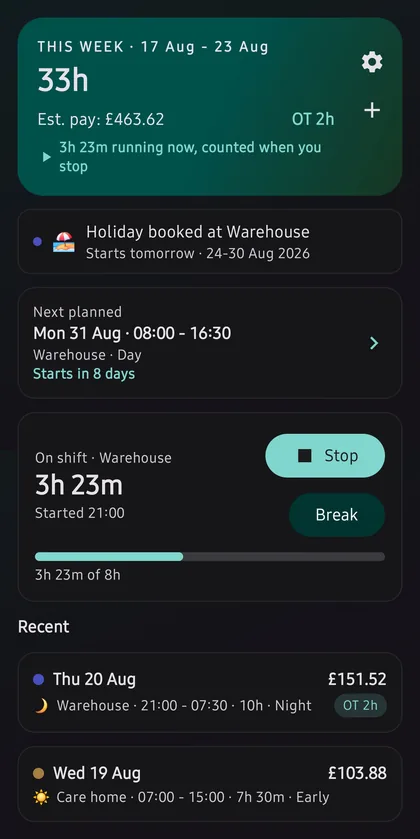
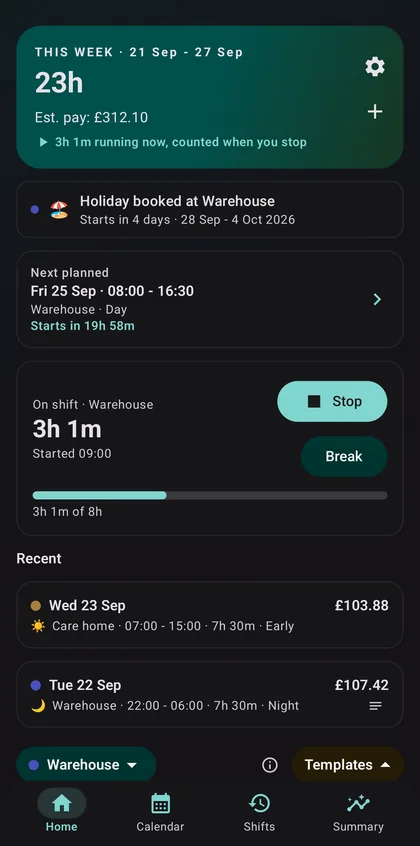
App screenshots: nine cards re-shot from the current Play listing captures
Tasbih+, Muslim Budget, Qard, Subs+, Renewly, Inventory+, Shifts+,
TakeHome+ and Trading Calculators now show the fleet dark look, from the
_source captures behind each app's captioned Play set (22-09 to 03-10).
Each is cropped 1440x2900 (no status bar or gesture handle, app bar kept)
to 420x846 card and 900x1812 lightbox WebP; heights updated in both places
each image appears. New alt text where the content changed (Subs+, Shifts+,
Trading Calculators); same screen in a new palette keeps its alt.
Unchanged: Mirath+, Birthday+, OfficeCalc, Invoice+, Holidays+, StairCalc
(already match their latest captures).

diff --git a/apps/index.html b/apps/index.html
@@ -59,7 +59,7 @@
             <a href="../privacy/tasbih-plus.html">Privacy policy</a>
           </div>
         </div>
-        <img class="shot-img" data-full="../img/tasbih-plus-large.webp" src="../img/tasbih-plus.webp" width="420" height="873" loading="lazy"
+        <img class="shot-img" data-full="../img/tasbih-plus-large.webp" src="../img/tasbih-plus.webp" width="420" height="846" loading="lazy"
              alt="Tasbih+ prayer times screen listing Fajr through Isha with a countdown to the next prayer.">
       </div>
 
@@ -79,7 +79,7 @@
             <a href="../privacy/muslim-budget.html">Privacy policy</a>
           </div>
         </div>
-        <img class="shot-img" data-full="../img/muslim-budget-large.webp" src="../img/muslim-budget.webp" width="420" height="820" loading="lazy"
+        <img class="shot-img" data-full="../img/muslim-budget-large.webp" src="../img/muslim-budget.webp" width="420" height="846" loading="lazy"
              alt="Muslim Budget zakat screen showing hawl progress, projected zakat due and zakat history.">
       </div>
 
@@ -99,7 +99,7 @@
             <a href="../privacy/qard.html">Privacy policy</a>
           </div>
         </div>
-        <img class="shot-img" data-full="../img/qard-large.webp" src="../img/qard.webp" width="420" height="766" loading="lazy"
+        <img class="shot-img" data-full="../img/qard-large.webp" src="../img/qard.webp" width="420" height="846" loading="lazy"
              alt="Qard home screen showing owed-to-me and I-owe totals above a list of loans, each with the amount repaid so far and how many days are left or late.">
       </div>
 
@@ -143,8 +143,8 @@
             <a href="../privacy/subs-plus.html">Privacy policy</a>
           </div>
         </div>
-        <img class="shot-img" data-full="../img/subs-plus-large.webp" src="../img/subs-plus.webp" width="420" height="820" loading="lazy"
-             alt="Subs+ home screen showing GBP 458.31 of monthly subscription spend, about 5,581.54 a year across 26 active subscriptions, then Netflix, TradingView, Apple Music, Amazon Prime, YouTube Premium and Hulu with their prices, cancel-by dates and a countdown chip on each.">
+        <img class="shot-img" data-full="../img/subs-plus-large.webp" src="../img/subs-plus.webp" width="420" height="846" loading="lazy"
+             alt="Subs+ home screen showing £136.36 of monthly subscription spend, about £1,671.28 a year with 9 active and 1 paused, then Netflix, Spotify, Disney+, YouTube Premium, EE Mobile and PureGym with their prices, cancel-by or renewal dates and a days-left chip on each.">
       </div>
 
       <div class="card shot">
@@ -162,7 +162,7 @@
             <a href="../privacy/renewly.html">Privacy policy</a>
           </div>
         </div>
-        <img class="shot-img" data-full="../img/renewly-large.webp" src="../img/renewly.webp" width="420" height="820" loading="lazy"
+        <img class="shot-img" data-full="../img/renewly-large.webp" src="../img/renewly.webp" width="420" height="846" loading="lazy"
              alt="Renewly home screen listing tracked items such as car insurance and MOT with days left until each expires.">
       </div>
 
@@ -202,7 +202,7 @@
             <a href="../privacy/inventory.html">Privacy policy</a>
           </div>
         </div>
-        <img class="shot-img" data-full="../img/inventory-large.webp" src="../img/inventory.webp" width="420" height="820" loading="lazy"
+        <img class="shot-img" data-full="../img/inventory-large.webp" src="../img/inventory.webp" width="420" height="846" loading="lazy"
              alt="Inventory+ tenancy screen for 42 Hollybank Road, showing the tenant and term with 57 days left, the electric, gas and water readings on one card, and the rooms below with how many items in each have been checked.">
       </div>
     </div>
@@ -247,8 +247,8 @@
             <a href="../privacy/shifts.html">Privacy policy</a>
           </div>
         </div>
-        <img class="shot-img" data-full="../img/shifts-plus-large.webp" src="../img/shifts-plus.webp" width="420" height="839" loading="lazy"
-             alt="Shifts+ home screen showing this week's hours and estimated pay with an overtime badge, the next planned shift, a live on-shift timer, and recent shifts tagged Night and Early.">
+        <img class="shot-img" data-full="../img/shifts-plus-large.webp" src="../img/shifts-plus.webp" width="420" height="846" loading="lazy"
+             alt="Shifts+ home screen showing this week's hours and estimated pay, a holiday booked at the warehouse, the next planned shift, a live on-shift timer with Stop and Break, and recent shifts tagged Early and Night.">
       </div>
 
       <div class="card shot">
@@ -268,7 +268,7 @@
             <a href="../privacy/takehome.html">Privacy policy</a>
           </div>
         </div>
-        <img class="shot-img" data-full="../img/takehome-plus-large.webp" src="../img/takehome-plus.webp" width="420" height="839" loading="lazy"
+        <img class="shot-img" data-full="../img/takehome-plus-large.webp" src="../img/takehome-plus.webp" width="420" height="846" loading="lazy"
              alt="TakeHome+ result screen showing take-home pay from a gross of 112,148, then the full working: pension contributions, the personal allowance, each income tax band with its rate, National Insurance, the child benefit charge and a student loan.">
       </div>
 
@@ -354,8 +354,8 @@
             <a href="../terms/trading-calculators.html">Terms</a>
           </div>
         </div>
-        <img class="shot-img" data-full="../img/trading-calculators-large.webp" src="../img/trading-calculators.webp" width="420" height="820" loading="lazy"
-             alt="Trading Calculators position size for futures: 5 contracts on a 50,000 dollar account at 1 percent risk with a 20 point stop on the Micro E-mini S&amp;P 500, risking 500 dollars.">
+        <img class="shot-img" data-full="../img/trading-calculators-large.webp" src="../img/trading-calculators.webp" width="420" height="846" loading="lazy"
+             alt="Trading Calculators position size for futures: 4 contracts (exactly 4.35, floored to whole contracts) on a 50,000 dollar account at 1 percent risk with a 23 point stop on the Micro E-mini S&amp;P 500, allowing 500 dollars of risk and actually risking 460 dollars.">
       </div>
     </div>
   </div>

diff --git a/apps/subs-plus.html b/apps/subs-plus.html
@@ -53,8 +53,8 @@
           <a href="../privacy/subs-plus.html">Privacy policy</a>
         </div>
       </div>
-      <img class="shot-img phone" data-full="../img/subs-plus-large.webp" src="../img/subs-plus.webp" width="420" height="820" loading="lazy"
-           alt="Subs+ home screen showing GBP 458.31 of monthly subscription spend, about 5,581.54 a year across 26 active subscriptions, then Netflix, TradingView, Apple Music, Amazon Prime, YouTube Premium and Hulu with their prices, cancel-by dates and a countdown chip on each.">
+      <img class="shot-img phone" data-full="../img/subs-plus-large.webp" src="../img/subs-plus.webp" width="420" height="846" loading="lazy"
+           alt="Subs+ home screen showing £136.36 of monthly subscription spend, about £1,671.28 a year with 9 active and 1 paused, then Netflix, Spotify, Disney+, YouTube Premium, EE Mobile and PureGym with their prices, cancel-by or renewal dates and a days-left chip on each.">
     </div>
 
     <h2>Stop paying for things you forgot</h2>

diff --git a/apps/trading-calculators.html b/apps/trading-calculators.html
@@ -54,8 +54,8 @@
           <a href="../terms/trading-calculators.html">Terms</a>
         </div>
       </div>
-      <img class="shot-img phone" data-full="../img/trading-calculators-large.webp" src="../img/trading-calculators.webp" width="420" height="820" loading="lazy"
-           alt="Trading Calculators position size for futures: 5 contracts on a 50,000 dollar account at 1 percent risk with a 20 point stop on the Micro E-mini S&amp;P 500, risking 500 dollars.">
+      <img class="shot-img phone" data-full="../img/trading-calculators-large.webp" src="../img/trading-calculators.webp" width="420" height="846" loading="lazy"
+           alt="Trading Calculators position size for futures: 4 contracts (exactly 4.35, floored to whole contracts) on a 50,000 dollar account at 1 percent risk with a 23 point stop on the Micro E-mini S&amp;P 500, allowing 500 dollars of risk and actually risking 460 dollars.">
     </div>
 
     <h2>Before every trade, the numbers</h2>

diff --git a/apps/shifts-plus.html b/apps/shifts-plus.html
@@ -53,8 +53,8 @@
           <a href="../privacy/shifts.html">Privacy policy</a>
         </div>
       </div>
-      <img class="shot-img phone" data-full="../img/shifts-plus-large.webp" src="../img/shifts-plus.webp" width="420" height="839" loading="lazy"
-           alt="Shifts+ home screen showing this week's 33 hours and estimated pay with an overtime badge, a booked holiday, the next planned shift, a live on-shift timer with Stop and Break buttons, and recent shifts tagged Night and Early.">
+      <img class="shot-img phone" data-full="../img/shifts-plus-large.webp" src="../img/shifts-plus.webp" width="420" height="846" loading="lazy"
+           alt="Shifts+ home screen showing this week's hours and estimated pay, a holiday booked at the warehouse, the next planned shift, a live on-shift timer with Stop and Break, and recent shifts tagged Early and Night.">
     </div>
 
     <h2>Your hours, and the pay they should produce</h2>

diff --git a/apps/takehome.html b/apps/takehome.html
@@ -53,7 +53,7 @@
           <a href="../privacy/takehome.html">Privacy policy</a>
         </div>
       </div>
-      <img class="shot-img phone" data-full="../img/takehome-plus-large.webp" src="../img/takehome-plus.webp" width="420" height="839" loading="lazy"
+      <img class="shot-img phone" data-full="../img/takehome-plus-large.webp" src="../img/takehome-plus.webp" width="420" height="846" loading="lazy"
            alt="TakeHome+ result screen showing take-home pay of GBP 65,212.22 from a gross of 112,148, then the full working: gross income, pension contributions, the personal allowance, each income tax band with its rate and amount, mortgage interest relief, National Insurance, the child benefit charge and a student loan.">
     </div>
 

diff --git a/apps/inventory.html b/apps/inventory.html
@@ -53,7 +53,7 @@
           <a href="../privacy/inventory.html">Privacy policy</a>
         </div>
       </div>
-      <img class="shot-img phone" data-full="../img/inventory-large.webp" src="../img/inventory.webp" width="420" height="820" loading="lazy"
+      <img class="shot-img phone" data-full="../img/inventory-large.webp" src="../img/inventory.webp" width="420" height="846" loading="lazy"
            alt="Inventory+ tenancy screen for 42 Hollybank Road, showing the tenant and term with 57 days left, the electric, gas and water readings on one card, and the rooms below with how many items in each have been checked.">
     </div>
 

diff --git a/apps/qard.html b/apps/qard.html
@@ -53,7 +53,7 @@
           <a href="../privacy/qard.html">Privacy policy</a>
         </div>
       </div>
-      <img class="shot-img phone" data-full="../img/qard-large.webp" src="../img/qard.webp" width="420" height="766" loading="lazy"
+      <img class="shot-img phone" data-full="../img/qard-large.webp" src="../img/qard.webp" width="420" height="846" loading="lazy"
            alt="Qard home screen showing owed-to-me and I-owe totals above a list of loans, each with the amount repaid so far and how many days are left or late.">
     </div>
 

diff --git a/apps/muslim-budget.html b/apps/muslim-budget.html
@@ -53,7 +53,7 @@
           <a href="../privacy/muslim-budget.html">Privacy policy</a>
         </div>
       </div>
-      <img class="shot-img phone" data-full="../img/muslim-budget-large.webp" src="../img/muslim-budget.webp" width="420" height="820" loading="lazy"
+      <img class="shot-img phone" data-full="../img/muslim-budget-large.webp" src="../img/muslim-budget.webp" width="420" height="846" loading="lazy"
            alt="Muslim Budget zakat screen showing hawl progress, projected zakat due and zakat history.">
     </div>
 

diff --git a/apps/tasbih-plus.html b/apps/tasbih-plus.html
@@ -52,7 +52,7 @@
           <a href="../privacy/tasbih-plus.html">Privacy policy</a>
         </div>
       </div>
-      <img class="shot-img phone" data-full="../img/tasbih-plus-large.webp" src="../img/tasbih-plus.webp" width="420" height="873" loading="lazy"
+      <img class="shot-img phone" data-full="../img/tasbih-plus-large.webp" src="../img/tasbih-plus.webp" width="420" height="846" loading="lazy"
            alt="Tasbih+ prayer times screen listing Fajr through Isha with a countdown to the next prayer.">
     </div>
 

diff --git a/apps/renewly.html b/apps/renewly.html
@@ -53,7 +53,7 @@
           <a href="../privacy/renewly.html">Privacy policy</a>
         </div>
       </div>
-      <img class="shot-img phone" data-full="../img/renewly-large.webp" src="../img/renewly.webp" width="420" height="820" loading="lazy"
+      <img class="shot-img phone" data-full="../img/renewly-large.webp" src="../img/renewly.webp" width="420" height="846" loading="lazy"
            alt="Renewly home screen listing tracked items such as car insurance and MOT with days left until each expires.">
     </div>
 
